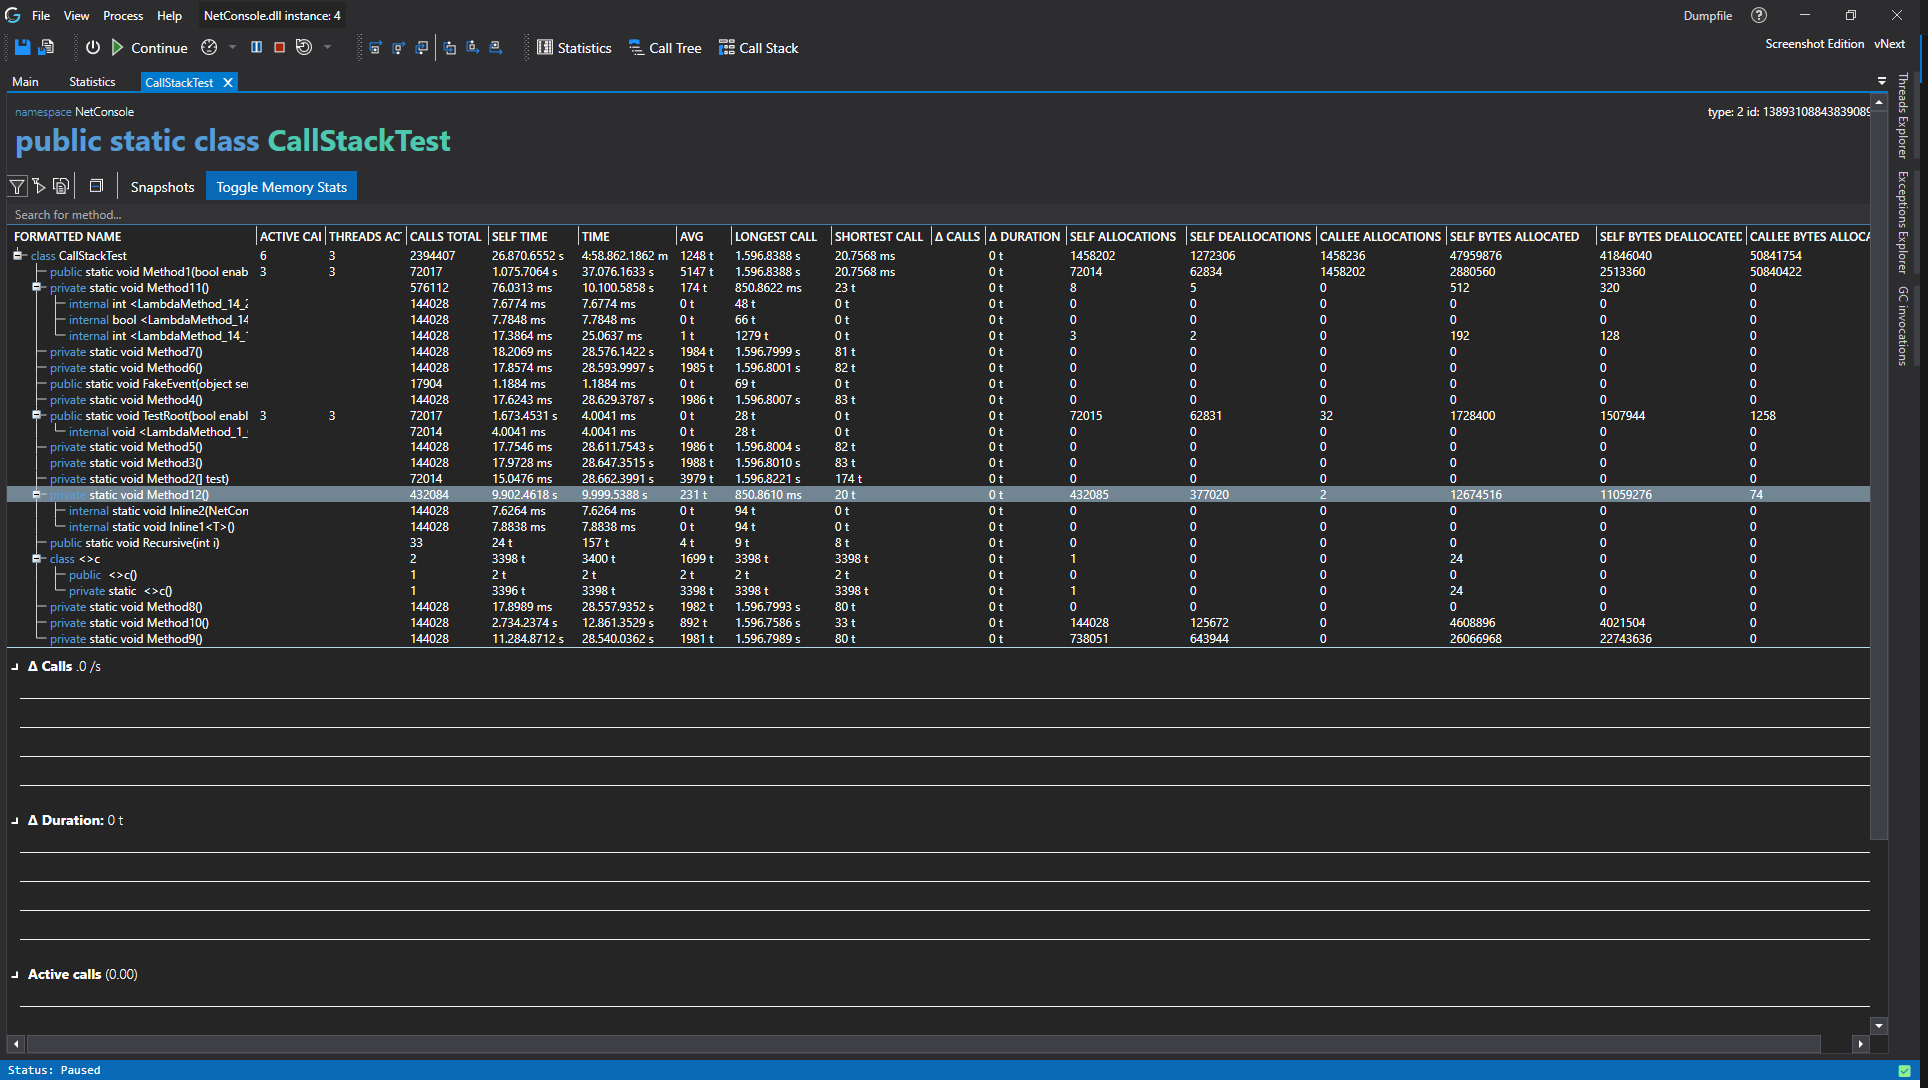
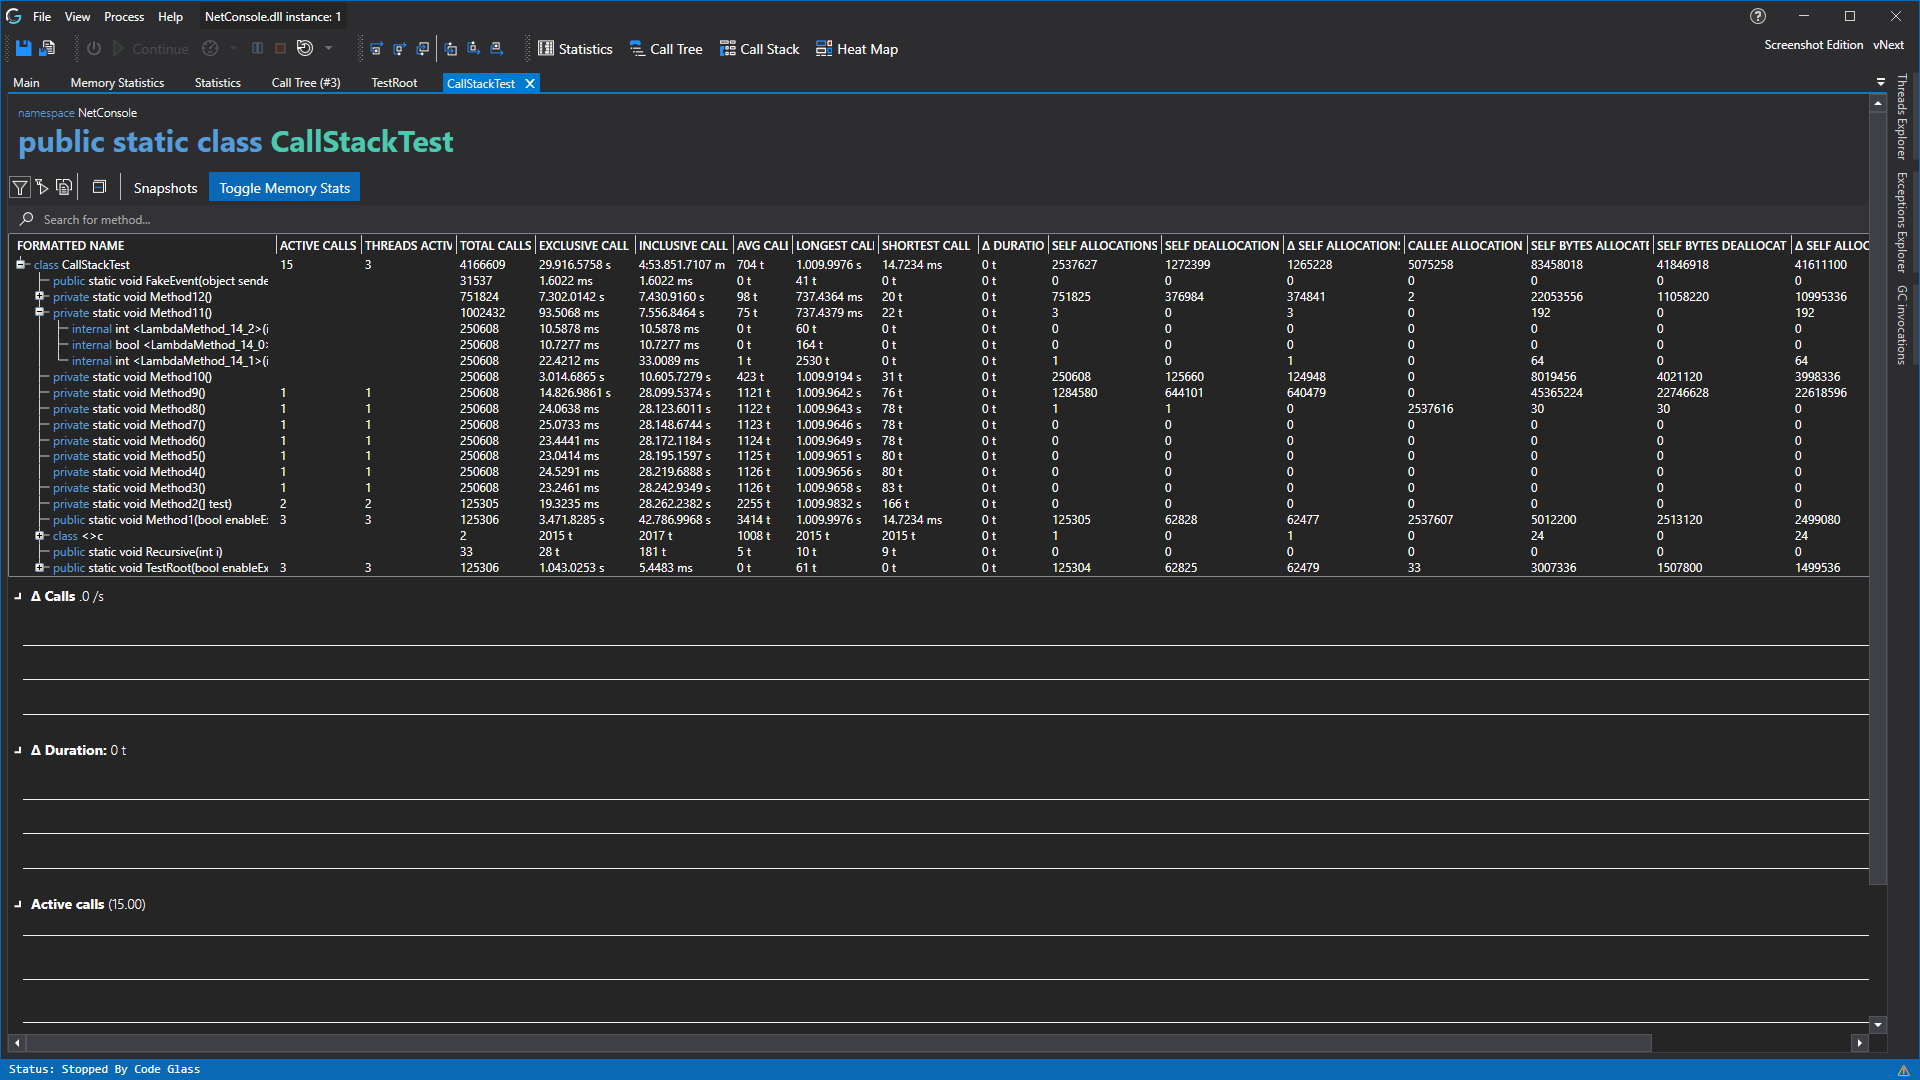
Dso and CodeMember views updated

diff --git a/_docs/views/ApplicationInstanceDockWindow/CodeMemberDetailsView.md b/_docs/views/ApplicationInstanceDockWindow/CodeMemberDetailsView.md
@@ -5,29 +5,29 @@ description: Details about the function / method
 # Function Details View
 ![assets/img/ApplicationInstanceWindow/CodeMemberDetailsView.png](../../../assets/img/ApplicationInstanceWindow/CodeMemberDetailsView.png)
 
-{% include alert.html  type="warning" title="Only Functions Use This View" content="This view is used only by functions, others use the <a href=\"ObjectDetailsView\" >object details view</a>." %}
+{% include alert.html type="warning" title="Only functions use this view" content="This view is used only by functions, others use the <a href=\"ObjectDetailsView\" >object details view</a>." %}
 
-This view has three inner views, [code body view](#code-body-view), [code body statistics view](#code-body-statistics-view) and the [statistics view](#statistics-view). Both of these are described below.
-
+This view has three inner views, [code body view](#code-body-view), [code body statistics view](#code-body-statistics-view) and the [statistics view](#statistics-view). All of these are described below.
 
 ## Code Body View
 ![assets/img/ApplicationInstanceWindow/CodeMemberDetailsView.png](../../../assets/img/ApplicationInstanceWindow/CodeMemberDetailsView.png)
-{% include alert.html  type="warning" title="Experimental Feature" content="This feature is still very experimental, though it is available in all <a href=\"../../Editions\" >editions</a>, for more info see the the <a href=\"../../features/CodeBodyReconstruction\" >code body reconstruction feature</a> description." %}
+{% include alert.html  type="warning" title="Experimental feature" content="This feature is still very experimental, though it is available in all <a href=\"../../Editions\" >editions</a>, for more info see the the <a href=\"../../features/CodeBodyReconstruction\" >code body reconstruction feature</a> description." %}
 
 {% include alert.html  type="warning" title="This is not done by decompiling your application!" content="This feature does <b>not</b> work by decompiling your application and inspecting your code, for info on how it does work see the the <a href=\"../../features/CodeBodyReconstruction\" >code body reconstruction feature</a> description." %}
-From this view you can see on the left what functions call this function and how much time the function took for the caller.
+
+On the left side you can see what functions call this function, and how much time the function took for this caller.
 
 On the right you see the embodiment of our [code body reconstruction feature](../../features/CodeBodyReconstruction.md). <br/>
-This view shows you not only wich functions were called in real time by this function but so much more, inluding:
+This view not only shows you which functions were called by this function but so much more, including:
 - Where in the code a function call was made. 
 - What paths needs to be taken inside the function to reach a specific function call 
-- How much time is spend in the body of the function between each function call. (This iliminates a huge part of the need to add stopwatches to your code)
+- How much time is spend in the body of the function between each function call. (This eliminates a huge part of the need to add stopwatches to your code)
 - How many times a loop was executed
 - How many times a path is taken
 - Where a thread is in the function.
 - Hot Paths
 - Cold Paths
-- Possibilities for optimizations, like loop unroling. 
+- Possibilities for optimizations, like loop unrolling. 
 - How your code really behaves against what you wrote.
 - How much memory this function has allocated. (Only available with an [experimental license](../../Editions/Experimental.md))
 - Where memory gets allocated. (Only available with an [experimental license](../../Editions/Experimental.md))
@@ -44,7 +44,7 @@ This view gives you statistics on the code paths within the function, it shows y
 
 {% include Statistics/BasicStatisticsColumnExplaination.md %}
 
-## Memory Statistics
+### Memory Statistics
 If you have an [experimental license](../../Editions/Experimental.md) and you have memory profiling enabled, this view will give more information about allocations in your code.<br>
 Code paths that allocate can also be expanded to see which objects it has allocated. Double clicking on the allocated object will open the [allocated by code path view](AllocatedByCodePathView.md).
 
@@ -52,13 +52,13 @@ Code paths that allocate can also be expanded to see which objects it has alloca
 ## Statistics View
 ![assets/img/ApplicationInstanceWindow/CodeMemberDetailsViewStatistics.png](../../../assets/img/ApplicationInstanceWindow/CodeMemberDetailsViewStatistics.png)
 
-This view looks and works allot like the [statistics view](StatisticsWindow.md), the only difference is that it only shows the data from this object instead of the whole profiled application instance by namespace, classes, methods, etc.
+This view looks and works allot like the [statistics view](StatisticsWindow.md), the only difference is that it only shows the data from this object instead of the whole profiled application.
 
 {% include Statistics/BasicStatisticsExplaination.md %}
 
-# Application Breadcrumbs
+<!-- # Application Breadcrumbs
 - [Application Instance Window](../ApplicationInstanceDockWindow.md) / 
     - [View Menu](../ApplicationInstanceDockWindow/MenuBar.md#view-menu) / [Statistics View](StatisticsWindow.md) /
     - [View Menu](../ApplicationInstanceDockWindow/MenuBar.md#view-menu) / [Application Explorer](ApplicationExplorer.md) /
     - [View Menu](../ApplicationInstanceDockWindow/MenuBar.md#view-menu) / [Call Tree Rendering](CallTreeRendering.md) /
-    - [View Menu](../ApplicationInstanceDockWindow/MenuBar.md#view-menu) / [Call Stack Rendering](CallStackRendering.md) /
+    - [View Menu](../ApplicationInstanceDockWindow/MenuBar.md#view-menu) / [Call Stack Rendering](CallStackRendering.md) / -->

diff --git a/_includes/Statistics/BasicStatisticsColumnExplaination.md b/_includes/Statistics/BasicStatisticsColumnExplaination.md
@@ -1,22 +1,27 @@
 ## Available Data
-Currently we have the following data sets in order they appear in the screenshot:
-- Active Calls, The amount of active calls under one item
-- Active Threads, The amount of active threads under one item <br/>
-- Total Calls, The amount of total calls made while profiling under one item.
-- Self Time, the total amount of [measured time](#time-measurement) spend in one item
-- Time, the total amount of [measured time](#time-measurement) spend under one item
-- AVG, the average amount of [measured time](#time-measurement) spend under one item
-- Longest Call, the longest [measured time](#time-measurement) spend under one item
-- Shortest Call, the shortest [measured time](#time-measurement) spend under one item
-- Δ Calls, amount of calls last second under one item
-- Δ Duration, the amount of [measured time](#time-measurement) spend last second under one item
+The statistics table shows both namespaces/classes and methods. Because a namespace or class cannot have any direct calls to it, it shows the sum of all its children.
 
-- Self Allocations, the amount of allocations in one item
-- Self Deallocations, the amount of deallocations in one item
-- Callee Allocations, the amount of allocations that happened in items called by this one
-- Self Bytes Allocated, the amount of bytes allocated in one item
-- Self Bytes Deallocated, the amount of bytes deallocated in one item
-- Callee Bytes Allocated, the amount of bytes allocated in items called by this one
+Currently we have the following data sets in order that they appear:
+- Formatted Name, the name of the namespace, class or method.
+- Active Calls, the amount of function being called in this item.
+- Active Threads, the amount of active threads in this item.
+- Total Calls, the total amount of calls made in this item.
+- Exclusive Call, the total amount of [measured time](#time-measurement) spend in this item, excluding the duration of calls made in this item.
+- Inclusive Call, the total amount of [measured time](#time-measurement) spend in this item, including the duration of calls made in this item.
+- AVG, the average amount of [measured time](#time-measurement) spend in this item.
+- Longest Call, the longest [measured time](#time-measurement) spend in this item.
+- Shortest Call, the shortest [measured time](#time-measurement) spend int this item.
+- Δ Calls, the amount of calls that were made to this item in the last second.
+- Δ Duration, the amount of [measured time](#time-measurement) spend in this item in the last second.
+
+- Self Allocations, the amount of allocations that were made in this item.
+- Self Deallocations, the amount of deallocations that were made in this item.
+- Δ Self Allocations, the difference between the amount of self allocations and self deallocations that were made in this item.
+- Callee Allocations, the amount of allocations that happened in items called by this one.
+- Self Bytes Allocated, the amount of bytes allocated in this item.
+- Self Bytes Deallocated, the amount of bytes deallocated in this item.
+- Δ Self Allocated Bytes, the difference between the amount of self allocated bytes and self deallocated bytes that were made in this item.
+- Callee Bytes Allocated, the amount of bytes allocated in items called by this one.
 
 When you double click an item in the tree view it will open the [object details view](ObjectDetailsView) or [function details view](CodeMemberDetailsView) of the selected item.
 

diff --git a/_docs/views/ApplicationInstanceDockWindow/ObjectDetailsView.md b/_docs/views/ApplicationInstanceDockWindow/ObjectDetailsView.md
@@ -5,18 +5,17 @@ description: The details window of an data type, like classes or namespaces.
 # Object Details View
 ![assets/img/ApplicationInstanceWindow/ObjectDetailsView.png](../../../assets/img/ApplicationInstanceWindow/ObjectDetailsView.png)
 
-{% include alert.html  type="warning" title="Functions Do Not Use This View" content="This view is used by all object types except code members, they use the <a href=\"CodeMemberDetailsView\" >code member details view</a>." %}
+{% include alert.html  type="warning" title="Functions do not use this view" content="This view is used by all object types except for functions, they use the <a href=\"CodeMemberDetailsView\" >code member details view</a>." %}
 
-This view looks and works allot like the [statistics view](StatisticsWindow.md), the only difference is that it only shows the data from this object instead of the whole profiled application instance by namespace, classes, methods, etc.
+This view looks and works allot like the [statistics view](StatisticsWindow.md), the only difference is that it only shows the data from this object instead of the whole profiled application.
 
 {% include Statistics/BasicStatisticsExplaination.md %}
 
 
-
-# Application Breadcrumbs
+<!-- # Application Breadcrumbs
 - [Application Instance Window](../ApplicationInstanceDockWindow.md) / 
     - [View Menu](../ApplicationInstanceDockWindow/MenuBar.md#view-menu) / [Statistics View](StatisticsWindow.md) /
-    - [View Menu](../ApplicationInstanceDockWindow/MenuBar.md#view-menu) / [Application Explorer](ApplicationExplorer.md) /
+    - [View Menu](../ApplicationInstanceDockWindow/MenuBar.md#view-menu) / [Application Explorer](ApplicationExplorer.md) / -->
 
 # See Also:
 - [Function Details View](CodeMemberDetailsView.md)

diff --git a/_includes/Statistics/BasicStatisticsExplaination.md b/_includes/Statistics/BasicStatisticsExplaination.md
@@ -1,14 +1,13 @@
-This view contains the general statistics of the profiled application by namespace, classes, methods, etc.
+This view contains the general statistics of the profiled application.
 The statistics are updated in real-time while the application is running.
 
-In the toolbar, you have multiple options; the first 3 define what data you want to see. The options are:
-- [current application instance filters](../../features/ProfilingDataFiltering#application-instance-filters)
-- [application instance start filters](../../features/ProfilingDataFiltering#application-instance-start-filters)
-- Show all, CodeGlass will apply no filter.
-
-Next to that, you also have to option to collapse all items in the tree view.<br/>
-Next to that one there is the button to start making snapshots. <br/>
-The last button is used to enable or disable showing memory statistics in the statistics window (this options is automatically enabled if you have memory profiling enabled).
+In the toolbar, you have multiple buttons. Each of them are described below.
+- Show [current application instance filters](../../features/ProfilingDataFiltering#application-instance-filters).
+- Show [application instance start filters](../../features/ProfilingDataFiltering#application-instance-start-filters).
+- Apply no filters.
+- Collapse all items in the tree view.
+- Open the snapshot menu.
+- Toggle showing memory statistics in the tree view (this options is automatically enabled if you have memory profiling enabled).
 
 Below all these buttons, there is a search bar. Here you search for method using its name. When you select one of the suggestions, it will automatically expand the tree view until the searched method.
 
